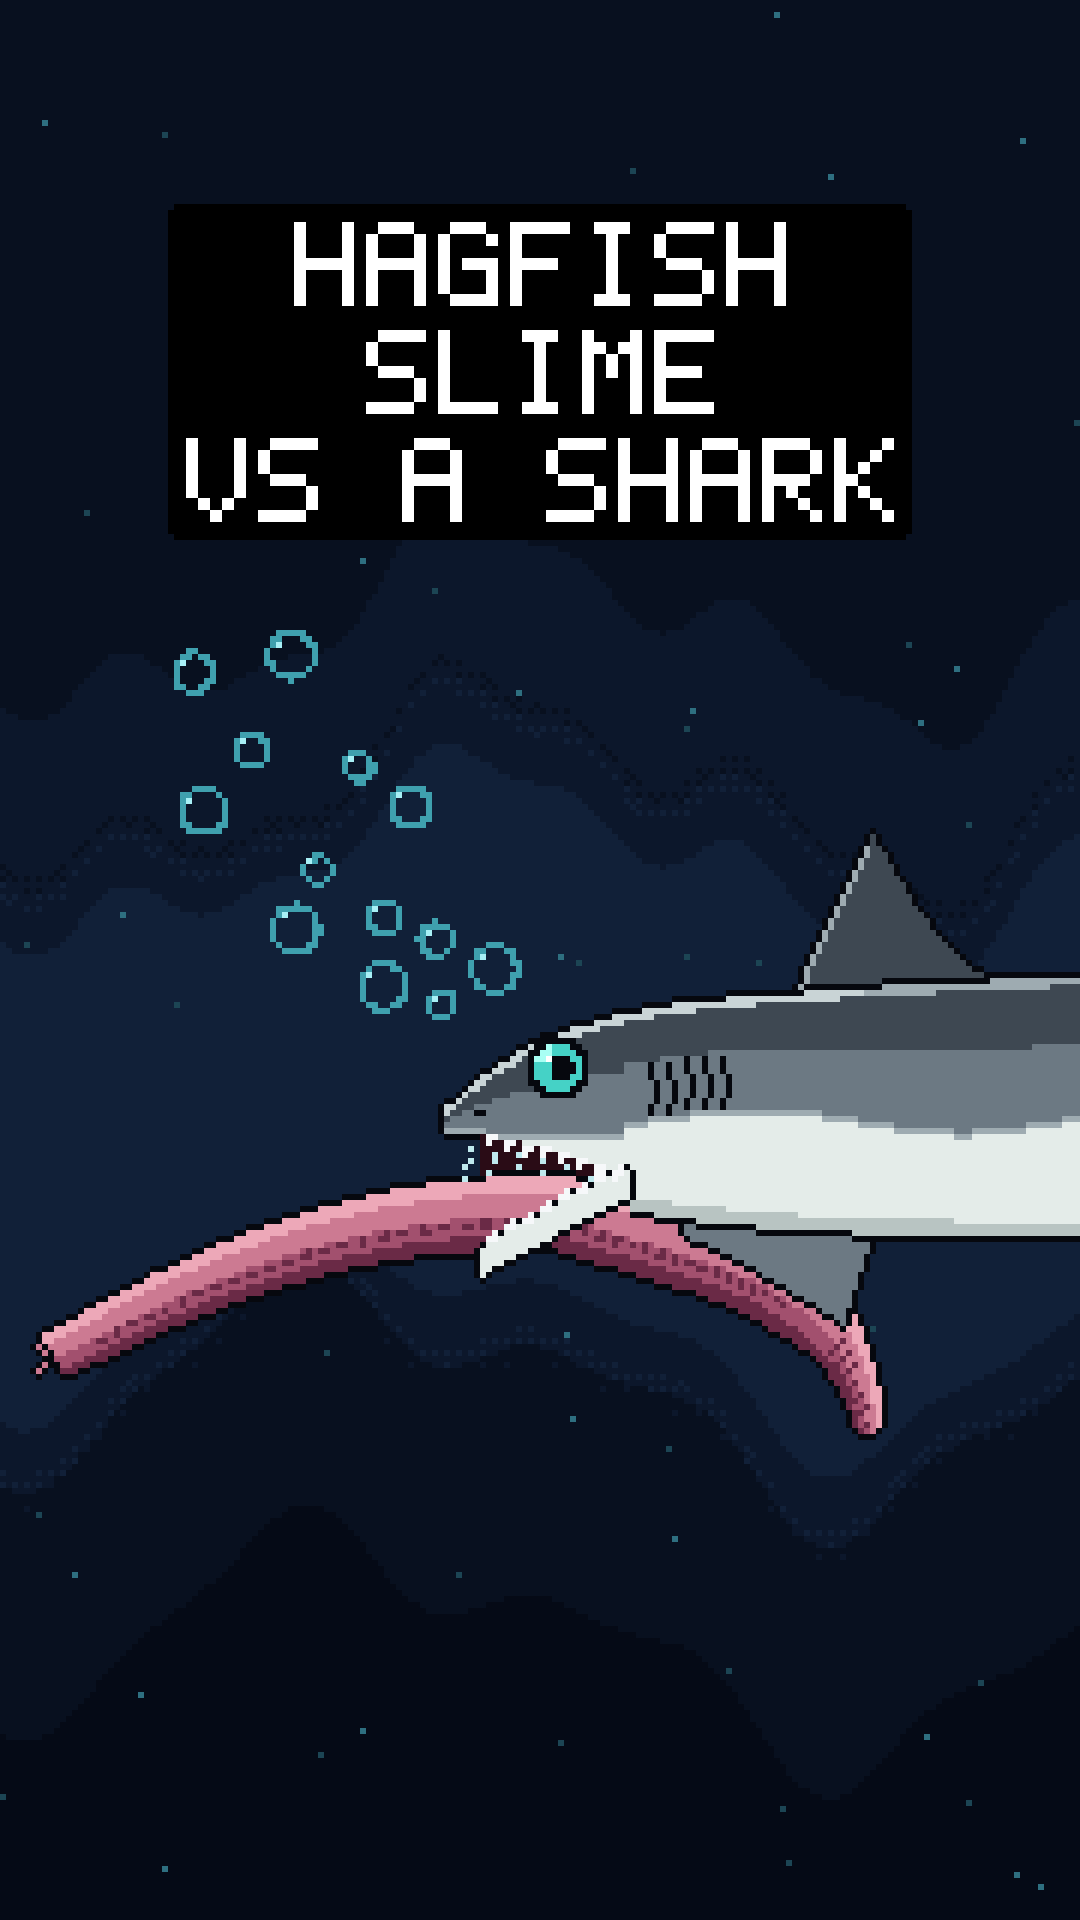
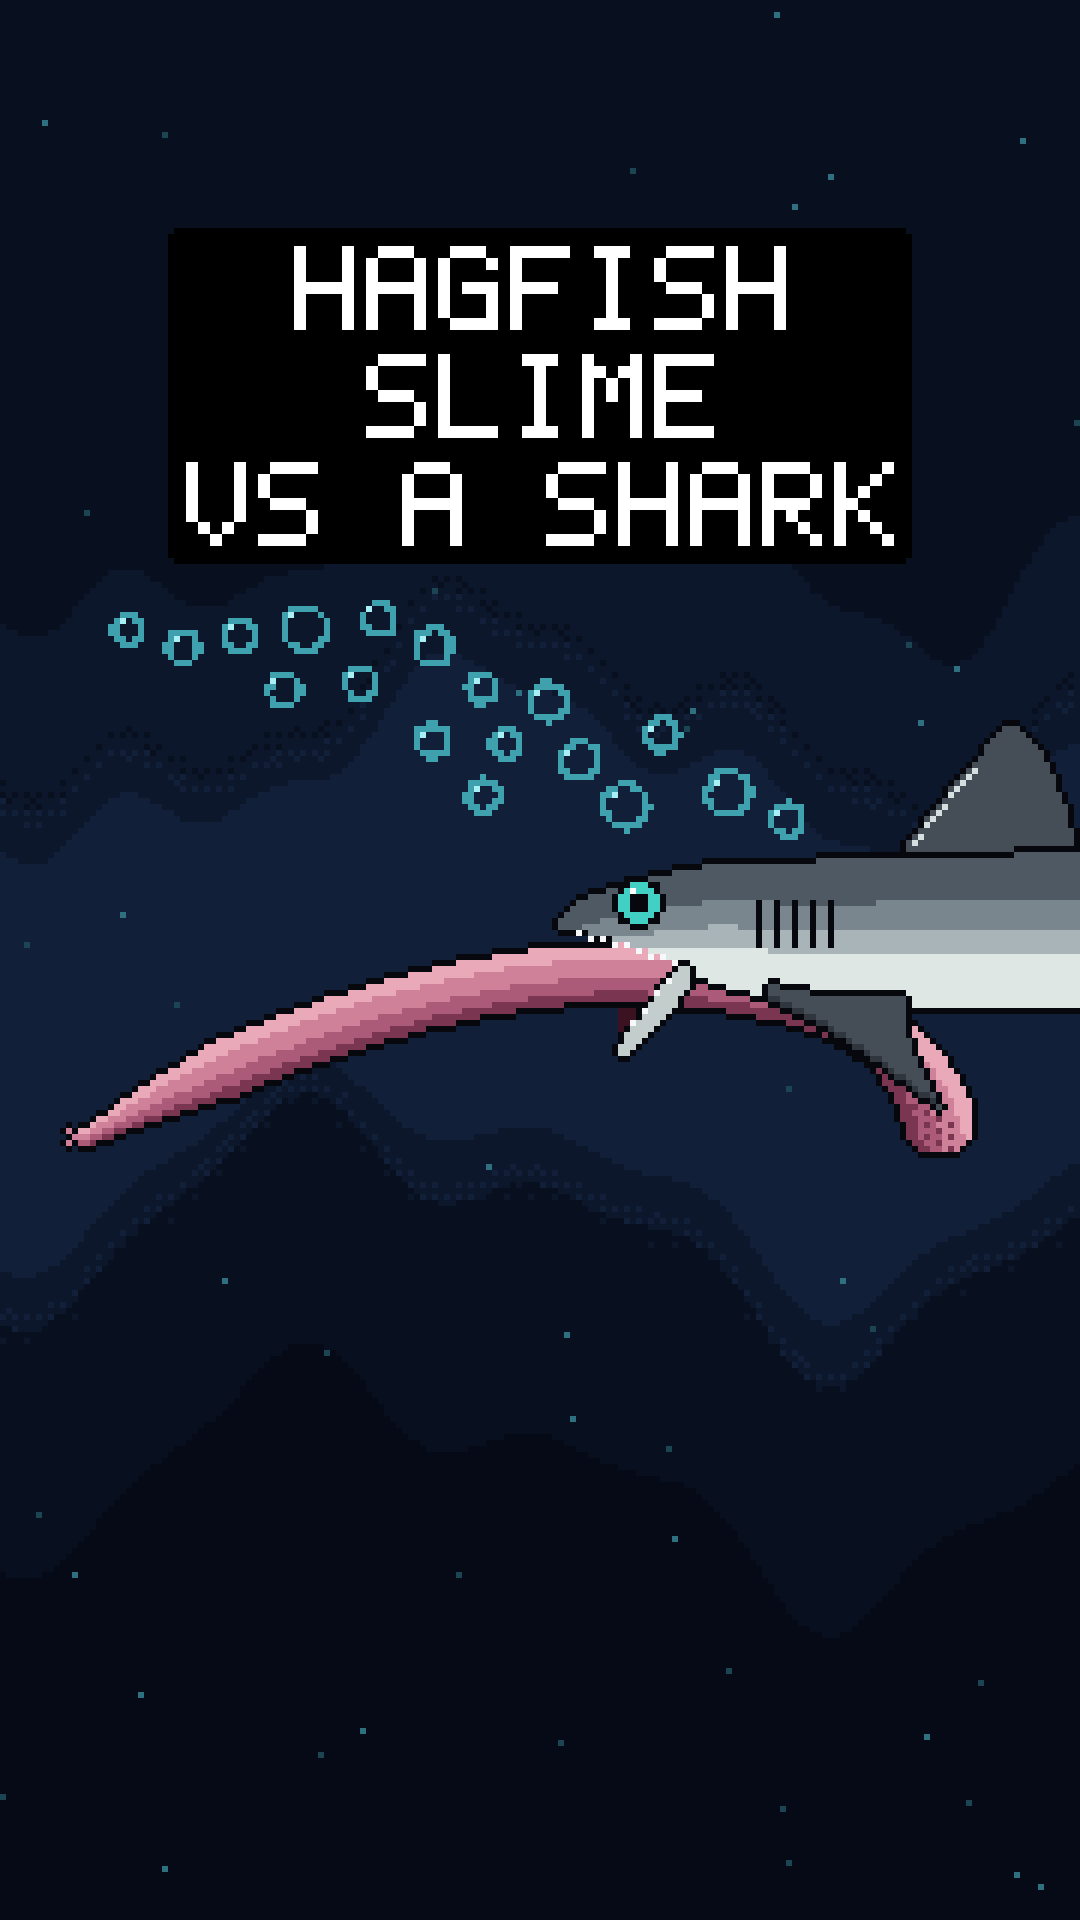
Style study: thin shark with reference proportions, swept fins
Claude-Session: https://claude.ai/code/session_01BoE2WJmQEjMiaJ5xhSpjQy

diff --git a/style_study/hagfish_vs_shark.py b/style_study/hagfish_vs_shark.py
@@ -20,8 +20,8 @@ def layer(F, mask, colours):
 
 # ================================================================ water: bands with curved, unique edges
 WATER = [c('#050a16'), c('#08101f'), c('#0c172b'), c('#112038'), c('#162a46')]
-wave1 = 132 + 14 * np.sin(XX / 21 + 0.7) + 6 * np.sin(XX / 8.5 + 2.1) + 3 * np.sin(XX / 4.1)
-wave2 = 232 + 16 * np.sin(XX / 26 + 2.4) + 7 * np.sin(XX / 10 + 0.3) + 3 * np.sin(XX / 5.3 + 1)
+wave1 = 118 + 14 * np.sin(XX / 21 + 0.7) + 6 * np.sin(XX / 8.5 + 2.1) + 3 * np.sin(XX / 4.1)
+wave2 = 205 + 16 * np.sin(XX / 26 + 2.4) + 7 * np.sin(XX / 10 + 0.3) + 3 * np.sin(XX / 5.3 + 1)
 v = np.where(YY < wave1, 2.2 - 0.9 * np.clip((wave1 - YY) / 130, 0, 1),
      np.where(YY < wave2, 3.3 - 0.6 * np.abs((YY - (wave1 + wave2) / 2) / ((wave2 - wave1) / 2)) ** 3,
               1.6 - 1.3 * np.clip((YY - wave2) / 90, 0, 1)))
@@ -32,146 +32,132 @@ for _ in range(60):
     x, y = rng.integers(0, W), rng.integers(0, H)
     F[y, x] = c('#2e6f80') if rng.random() < 0.5 else c('#1c4554')
 
-# ================================================================ shark geometry
-X0, YC = 74, 186                          # snout tip, body centre line at the head
+# ================================================================ shark: long, thin, friendly (proportions measured from the reference)
+X0, TIPY = 93, 153                        # snout tip
+CORNER = (113, 160)                       # back corner of the open mouth
 def top_y(x):
     u = x - X0
-    return YC - 2 - 20 * (1 - math.exp(-u / 20)) - 0.04 * max(0, u - 60)
+    return TIPY - 9.5 * math.sqrt(min(u, 26) / 26) - 0.03 * max(0, u - 26)
+def jaw_y(x):                             # underside of the upper jaw (snout -> mouth corner)
+    s_ = (x - X0) / (CORNER[0] - X0)
+    return TIPY + 1 + (CORNER[1] - TIPY - 1) * s_ ** 1.2
 def bot_y(x):
-    u = x - X0
-    return YC + 3 + 17 * (1 - math.exp(-u / 24))
-CORNER = (X0 + 30, YC + 9)                # back corner of the mouth
-def upper_jaw_y(x):                       # underside of the upper jaw, snout -> corner
-    s = (x - X0) / (CORNER[0] - X0)
-    return YC + 2 + (CORNER[1] - YC - 2) * s ** 1.4
-def lower_jaw_top(x):                     # the open lower jaw hangs down and forward
-    s = (CORNER[0] - x) / (CORNER[0] - X0 - 6)
-    return CORNER[1] + 13 * s
+    if x < CORNER[0]: return jaw_y(x)
+    return CORNER[1] + 7 * math.sqrt(min(x - CORNER[0], 22) / 22)
 
-body = np.zeros((H, W), bool)
+G = {'dk': c('#4f5963'), 'md': c('#7a868e'), 'lt': c('#a9b4b8'), 'bl': c('#dfe7e4'), 'fin': c('#454e57'), 'jaw': c('#c3cdcc')}
+body = np.zeros((H, W), bool); col = np.zeros((H, W, 3), np.uint8)
 for x in range(X0, W):
     t, b = top_y(x), bot_y(x)
-    body[int(math.ceil(t)):int(b) + 1, x] = True
-    if x < CORNER[0]:                     # carve the open mouth out of the head
-        body[int(upper_jaw_y(x)) + 1:, x] = False
-mouth = np.zeros((H, W), bool); jaw = np.zeros((H, W), bool)
-for x in range(X0 + 6, CORNER[0] + 1):
-    uj, lj = upper_jaw_y(x), lower_jaw_top(x)
-    mouth[int(uj) + 1:int(lj), x] = True
-    jaw[int(lj):int(lj) + 5, x] = True
+    for y in range(int(math.ceil(t)), int(math.floor(b)) + 1):
+        body[y, x] = True
+        f = (y - t) / max(1.0, (bot_y(max(x, CORNER[0] + 8)) - t))
+        col[y, x] = G['dk'] if f < 0.3 else G['md'] if f < 0.5 else G['lt'] if f < 0.66 else G['bl']
 
-# contour-following countershading: dark back / mid / light line / white belly along a curved split
-G = {'dk': c('#3e4852'), 'md': c('#6c7983'), 'lt': c('#9eabb1'), 'rim': c('#c9d4d6'), 'bl': c('#e4ece9'), 'sh': c('#b8c4c2')}
-col = np.zeros((H, W, 3), np.uint8)
-for x in range(X0, W):
-    t, b = top_y(x), bot_y(x); u = x - X0
-    split = t + (b - t) * (0.56 + 0.05 * math.sin(u / 11)) + (2 if x < CORNER[0] else 0)
-    for y in range(int(math.ceil(t)), int(b) + 1):
-        if y < t + 1.5: k = G['rim'] if u < 70 else G['lt']          # lit edge along the back
-        elif y < t + (split - t) * 0.45: k = G['dk']
-        elif y < split - 1: k = G['md']
-        elif y < split: k = G['lt']
-        elif y > b - 2.5: k = G['sh']                                 # belly shadow
-        else: k = G['bl']
-        col[y, x] = k
+dorsal = np.zeros((H, W), bool); dcol = np.zeros((H, W, 3), np.uint8); dcol[:] = G['fin']
+DB0, DPK, DB1 = (150, 142), (167, 121), (179, 141)                 # big swept dorsal fin
+for x in range(DB0[0], DB1[0] + 1):
+    base = top_y(x) + 1
+    if x <= DPK[0]: ytop = DB0[1] + (DPK[1] - DB0[1]) * ((x - DB0[0]) / (DPK[0] - DB0[0])) ** 0.9
+    else: ytop = DPK[1] + (DB1[1] - DPK[1]) * ((x - DPK[0]) / (DB1[0] - DPK[0])) ** 2.2
+    if ytop < base: dorsal[int(round(ytop)):int(base) + 1, x] = True
+for k in range(2, 13):                                           # thin light leading edge
+    x = DB0[0] + k; y = DB0[1] + (DPK[1] - DB0[1]) * (k / (DPK[0] - DB0[0])) ** 0.9
+    dcol[int(round(y)) + 1, x] = c('#d6dfe0')
 
-# fins
-dorsal = np.zeros((H, W), bool); pect = np.zeros((H, W), bool)
-for x in range(X0 + 58, X0 + 92):
-    k = x - (X0 + 58); base = top_y(x) + 1
-    h = 26 * (k / 13) if k < 13 else 26 * ((34 - k) / 21) ** 1.6
-    dorsal[int(base - h):int(base) + 1, x] = True
-for x in range(X0 + 40, X0 + 72):
-    k = x - (X0 + 40); base = bot_y(x) - 2
-    h = 6 + 16 * (k / 32) ** 1.3 if k < 26 else (6 + 16 * (26 / 32) ** 1.3) * (32 - k) / 6
-    pect[int(base):int(base + h), x] = True
-fincol = np.zeros((H, W, 3), np.uint8)
-fincol[:] = G['dk']
-for y, x in zip(*np.nonzero(dorsal)):
-    if x - (X0 + 58) < 13 and not dorsal[y, x - 1]: fincol[y, x] = G['lt']     # lit leading edge
-pcol = np.zeros((H, W, 3), np.uint8); pcol[:] = G['md']
+pect = np.zeros((H, W), bool)                                     # pectoral fin: long, swept back and down
+PF0, PTIP, PF1 = (128, 166), (156, 184), (150, 167)
+for x in range(PF0[0], PTIP[0] + 1):
+    base = bot_y(x) - 1
+    ylow = PF0[1] + (PTIP[1] - PF0[1]) * ((x - PF0[0]) / (PTIP[0] - PF0[0])) ** 1.25
+    if x > PF1[0]:                                                # trailing edge curls back up to the body
+        yhigh = PF1[1] + (PTIP[1] - PF1[1]) * ((x - PF1[0]) / (PTIP[0] - PF1[0])) ** 0.6
+        pect[int(round(yhigh)):int(round(ylow)) + 1, x] = True
+    else:
+        pect[int(base):int(round(ylow)) + 1, x] = True
+pcol = np.zeros((H, W, 3), np.uint8); pcol[:] = G['fin']
 for y, x in zip(*np.nonzero(pect)):
-    if not pect[y - 1, x]: pcol[y, x] = G['dk']
+    if pect[y - 1, x] and not pect[min(H - 1, y + 1), x]: pcol[y, x] = c('#2f363d')    # shade along the lower edge
+
+mouth = np.zeros((H, W), bool); jaw = np.zeros((H, W), bool)
+JAW_TIP = (103, 174)
+for k in range(80):                                              # lower jaw: a light wedge, thick at the hinge
+    s_ = k / 79
+    x = CORNER[0] - (CORNER[0] - JAW_TIP[0]) * s_; y = CORNER[1] + 1 + (JAW_TIP[1] - CORNER[1] - 1) * s_
+    th = 4 - 2.5 * s_
+    jaw[int(round(y)):int(round(y + th)), int(round(x))] = True
+    jaw[int(round(y)):int(round(y + th)), int(round(x)) + 1] = True
+for x in range(X0 + 2, CORNER[0] + 1):
+    ytop = int(jaw_y(x)) + 1
+    s_ = (CORNER[0] - x) / (CORNER[0] - JAW_TIP[0])
+    ylow = int(CORNER[1] + 1 + (JAW_TIP[1] - CORNER[1] - 1) * min(1, s_)) if x >= JAW_TIP[0] else ytop
+    mouth[ytop:ylow, x] = True
 
 # ================================================================ hagfish
 def bez(p0, p1, p2, p3, n=500):
     t = np.linspace(0, 1, n)[:, None]
     return (1 - t) ** 3 * p0 + 3 * (1 - t) ** 2 * t * p1 + 3 * (1 - t) * t * t * p2 + t ** 3 * p3
 P = lambda a, b: np.array([a, b], float)
-CURVE = np.vstack([bez(P(8, 226), P(30, 214), P(58, 200), P(X0 + 20, YC + 16)),
-                   bez(P(X0 + 20, YC + 16), P(X0 + 44, YC + 24), P(X0 + 66, YC + 26), P(X0 + 70, YC + 50))])
-PK = [c('#6a2a46'), c('#a2506e'), c('#cc7a92'), c('#eda8b8')]
-hag = np.zeros((H, W), bool); hcol = np.zeros((H, W, 3), np.uint8); hs = np.zeros((H, W))
-ys, xs = np.nonzero((YY > 170) & (YY < 250))
+CURVE = np.vstack([bez(P(14, 189), P(45, 172), P(80, 160), P(110, 162)),
+                   bez(P(110, 162), P(132, 164), P(150, 168), P(156, 186))])
+PK = [c('#7a3550'), c('#ab5b78'), c('#cf8199'), c('#eaa9b9')]
+hag = np.zeros((H, W), bool); hcol = np.zeros((H, W, 3), np.uint8)
+ys, xs = np.nonzero((YY > 145) & (YY < 200))
 for y, x in zip(ys, xs):
-    d = np.hypot(CURVE[:, 0] - x, CURVE[:, 1] - y); i = int(np.argmin(d)); s = i / len(CURVE)
-    r = 4.0 + 2.2 * math.sin(min(1, s * 1.6) * math.pi / 2) - (3.8 * (s - 0.82) / 0.18 if s > 0.82 else 0)
-    if d[i] > r or s < 0.004: continue
-    hag[y, x] = True; hs[y, x] = s
+    d = np.hypot(CURVE[:, 0] - x, CURVE[:, 1] - y); i = int(np.argmin(d)); s_ = i / len(CURVE)
+    r = 1.5 + 3.3 * min(1, s_ / 0.12) + (1.2 * (s_ - 0.85) / 0.15 if s_ > 0.85 else 0)
+    if d[i] > r: continue
+    hag[y, x] = True
     seg = CURVE[min(i + 1, len(CURVE) - 1)] - CURVE[max(i - 1, 0)]
     nrm = np.array([-seg[1], seg[0]]); nrm /= np.linalg.norm(nrm) + 1e-9
-    if nrm[1] > 0: nrm = -nrm                                          # normal pointing up
-    off = -((x - CURVE[i, 0]) * nrm[0] + (y - CURVE[i, 1]) * nrm[1]) / r   # -1 top .. +1 bottom
-    k = PK[3] if off < -0.55 else PK[2] if off < 0.1 else PK[1] if off < 0.6 else PK[0]
-    if 0.15 < off < 0.4 and (i // 9) % 2 == 0 and 0.05 < s < 0.8: k = PK[0]    # row of slime pores
-    if s > 0.88 and off > -0.2 and (x + y) % 3 == 0: k = PK[0]           # tail fin rays
-    hcol[y, x] = k
-for dx, dy in ((-1, -1), (-2, -2), (-1, 1), (-2, 2)):                    # barbels
-    hag[226 + dy, 8 + dx] = True; hcol[226 + dy, 8 + dx] = PK[2]
+    if nrm[1] > 0: nrm = -nrm
+    off = -((x - CURVE[i, 0]) * nrm[0] + (y - CURVE[i, 1]) * nrm[1]) / r
+    hcol[y, x] = PK[3] if off < -0.5 else PK[2] if off < 0.15 else PK[1] if off < 0.65 else PK[0]
+    if s_ > 0.9 and off > -0.3 and (x + 2 * y) % 4 == 0: hcol[y, x] = PK[0]
+for dx, dy in ((-2, 0), (-3, -1), (-3, 1)):                     # barbels
+    hag[189 + dy, 14 + dx] = True; hcol[189 + dy, 14 + dx] = PK[2]
 
 # ================================================================ compose (back to front)
 behind = hag & (XX > CORNER[0])
 layer(F, behind, hcol)
-layer(F, pect, pcol)
-layer(F, dorsal, fincol)
+layer(F, dorsal, dcol)
 layer(F, body, col)
-F[mouth] = c('#2a0c16'); F[mouth & (YY > YY.max())] = 0
-front = hag & (XX <= CORNER[0])
-F[dilate(front) & ~front & (XX <= CORNER[0]) & ~hag] = INK      # outline, but no seam where it enters the mouth
+layer(F, pect, pcol)
+F[mouth] = c('#3a1220')
+front = hag & (XX <= CORNER[0]) & ~body
+F[dilate(front) & ~front & ~hag & ~body] = INK
 F[front] = hcol[front]
-layer(F, jaw, np.broadcast_to(G['bl'], (H, W, 3)).copy())
-for x in range(X0 + 7, CORNER[0] - 1, 3):                                # teeth
-    uj, lj = int(upper_jaw_y(x)), int(lower_jaw_top(x))
-    F[uj + 1, x] = F[uj + 2, x] = c('#f6f8fa'); F[uj + 1, x + 1] = c('#f6f8fa')
-    F[lj - 1, x + 1] = F[lj - 2, x + 1] = c('#f6f8fa'); F[lj - 1, x] = c('#f6f8fa')
-for k in range(5):                                                       # curved gill slits
-    gx = X0 + 34 + k * 3
-    for j in range(9):
-        F[int(top_y(gx) + 10 + j), gx + (1 if 2 < j < 7 else 0)] = INK
-F[YC - 1, X0 + 5] = INK; F[YC - 1, X0 + 6] = INK                       # nostril
-ex, ey, er = X0 + 19, YC - 8, 5.2                                        # big eye
-for y in range(int(ey - er - 1), int(ey + er + 2)):
-    for x in range(int(ex - er - 1), int(ex + er + 2)):
+layer(F, jaw, np.broadcast_to(G['jaw'], (H, W, 3)).copy())
+for x in range(X0 + 3, CORNER[0], 2):                           # upper teeth
+    F[int(jaw_y(x)) + 1, x] = c('#f6f8fa')
+for k in range(2, 10, 2):                                        # lower teeth
+    x = CORNER[0] - k; y = int(round(CORNER[1] + 1 + (JAW_TIP[1] - CORNER[1] - 1) * k / (CORNER[0] - JAW_TIP[0]))) - 1
+    F[y, x] = c('#f6f8fa')
+for gx in (126, 129, 132, 135, 138):                             # gill slits
+    F[150:158, gx] = INK
+ex, ey = 106.5, 150.5                                            # big friendly eye
+for y in range(144, 158):
+    for x in range(99, 115):
         d = math.hypot(x + 0.5 - ex, y + 0.5 - ey)
-        if d <= er:
-            F[y, x] = INK if d > er - 1 else (c('#a8fff4') if (x < ex - 1 and y < ey - 1 and d > er - 2.5) else c('#45d2c6'))
-for y in range(int(ey - 2), int(ey + 2)):
-    for x in range(int(ex - 1), int(ex + 3)):
-        if math.hypot(x + 0.5 - ex - 0.5, y + 0.5 - ey) <= 2.2: F[y, x] = INK
-F[int(ey - 2), int(ex - 2)] = c('#ffffff')
-SLIME = c('#bfe9ee')                                                      # slime strings at the bite
-for k in range(6):
-    sx = X0 + 4 + k * 4
-    for j in range(4 + k % 3 * 2):
-        y = int(upper_jaw_y(sx) + 3 + j * 1.6); x = sx - j // 2
-        if 0 <= y < H and not front[y, x]: F[y, x] = SLIME
+        if d <= 4.4: F[y, x] = INK if d > 3.4 else (INK if d < 1.7 else c('#43d0c4'))
+F[148, 105] = c('#ffffff')
 
 # ================================================================ bubbles: a loose trail rising from the bite
 placed = []
 tries = 0
-while len(placed) < 13 and tries < 5000:
+while len(placed) < 18 and tries < 5000:
     tries += 1
     s = rng.random()
-    by = 168 - s * 64 + rng.normal(0, 3)
-    bx = X0 + 4 - s * 46 + rng.normal(0, 9)
-    r = float(rng.choice([2.2, 2.7, 3.2, 3.8]))
+    by = 136 - s * 34 + rng.normal(0, 2)
+    bx = 120 - s * 78 + rng.normal(0, 8)
+    r = float(rng.choice([2.3, 2.6, 3.0, 3.6]))
     if any(math.hypot(bx - px, by - py) < r + pr + 4 for px, py, pr in placed): continue
-    if body[int(by), int(bx)] or by < 102: continue
+    if body[int(by), int(bx)] or dorsal[int(by), int(bx)] or by < 103 or by > 138 or (bx > 140 and by > 118): continue
     placed.append((bx, by, r))
 for bx, by, r in placed:
     for y in range(int(by - r - 1), int(by + r + 2)):
         for x in range(int(bx - r - 1), int(bx + r + 2)):
-            if abs(math.hypot(x + 0.5 - bx, y + 0.5 - by) - r) < 0.55 and not body[y, x]: F[y, x] = c('#3fa0ae')
+            if abs(math.hypot(x + 0.5 - bx, y + 0.5 - by) - r) < 0.62 and not body[y, x]: F[y, x] = c('#3fa0ae')
     F[int(by - r * 0.55), int(bx - r * 0.55)] = c('#a8f0f6')
 
 # ================================================================ caption
@@ -184,7 +170,7 @@ FONT = {'A': ["01110","10001","10001","11111","10001","10001","10001"], 'F': ["1
 lines, sc, pad = ["HAGFISH", "SLIME", "VS A SHARK"], 2, 3
 tw = max(len(l) for l in lines) * 6 * sc - sc; th = len(lines) * 9 * sc - 2 * sc
 bw, bh = tw + 2 * pad, th + 2 * pad
-bx0, by0 = (W - bw) // 2, 34
+bx0, by0 = (W - bw) // 2, 38
 box = np.ones((bh, bw), bool)
 for cy, cx in ((0, 0), (0, bw - 1), (bh - 1, 0), (bh - 1, bw - 1)): box[cy, cx] = False
 F[by0:by0 + bh, bx0:bx0 + bw][box] = 0
